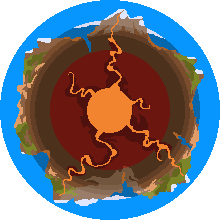
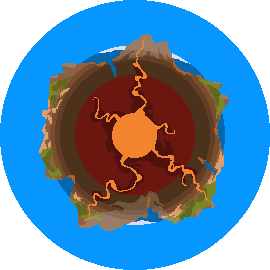
Bigger band for the planet!

diff --git a/core/src/net/mostlyoriginal/game/system/planet/cells/AirCellSimulator.java b/core/src/net/mostlyoriginal/game/system/planet/cells/AirCellSimulator.java
@@ -3,6 +3,7 @@ package net.mostlyoriginal.game.system.planet.cells;
 import com.badlogic.gdx.graphics.Color;
 import com.badlogic.gdx.math.Interpolation;
 import com.badlogic.gdx.math.MathUtils;
+import net.mostlyoriginal.game.component.G;
 import net.mostlyoriginal.game.component.PlanetCell;
 import net.mostlyoriginal.game.component.StatusMask;
 
@@ -12,6 +13,7 @@ import net.mostlyoriginal.game.component.StatusMask;
  */
 public class AirCellSimulator implements CellSimulator {
 
+    public static final float AIR_FADE_BAND_WIDTH = 50f;
     Color coldColor;
     Color aridColor;
     Color workColor = new Color();
@@ -19,19 +21,20 @@ public class AirCellSimulator implements CellSimulator {
     @Override
     public void process(CellDecorator c, float delta) {
 
-        if ( aridColor == null ) {
-            coldColor=new Color();
-            aridColor=new Color();
+        if (aridColor == null) {
+            coldColor = new Color();
+            aridColor = new Color();
 
             Color.rgba8888ToColor(coldColor, c.planet.cellColor[PlanetCell.CellType.AIR.ordinal()]);
             Color.rgba8888ToColor(aridColor, c.planet.cellColorArid[PlanetCell.CellType.AIR.ordinal()]);
-            coldColor.a = aridColor.a = workColor.a = 1f;
+            coldColor.a = aridColor.a = 1f;
         }
 
-        float a = MathUtils.clamp((c.mask().temperature / StatusMask.ARID_TEMPERATURE),0f,1f);
-        workColor.r = Interpolation.linear.apply( coldColor.r, aridColor.r, a);
-        workColor.g = Interpolation.linear.apply( coldColor.g, aridColor.g, a);
-        workColor.b = Interpolation.linear.apply( coldColor.b, aridColor.b, a);
+        float a = MathUtils.clamp((c.mask().temperature / StatusMask.ARID_TEMPERATURE), 0f, 1f);
+        workColor.r = Interpolation.linear.apply(coldColor.r, aridColor.r, a);
+        workColor.g = Interpolation.linear.apply(coldColor.g, aridColor.g, a);
+        workColor.b = Interpolation.linear.apply(coldColor.b, aridColor.b, a);
+        workColor.a = ((G.SIMULATION_WIDTH / 2) - c.cell.height) < AIR_FADE_BAND_WIDTH ? MathUtils.clamp(((G.SIMULATION_WIDTH /2)  - c.cell.height) / AIR_FADE_BAND_WIDTH, 0.05f, 1f): 1f;
 
         c.cell.color = Color.rgba8888(workColor);
 

diff --git a/core/src/net/mostlyoriginal/game/system/planet/cells/WaterCellSimulator.java b/core/src/net/mostlyoriginal/game/system/planet/cells/WaterCellSimulator.java
@@ -2,6 +2,7 @@ package net.mostlyoriginal.game.system.planet.cells;
 
 import com.badlogic.gdx.math.MathUtils;
 import net.mostlyoriginal.game.component.PlanetCell;
+import net.mostlyoriginal.game.component.StatusMask;
 
 /**
  * @author Daan van Yperen
@@ -41,7 +42,7 @@ public class WaterCellSimulator implements CellSimulator {
 
         if ( c.cell.nextType == null ) {
             final float temperature = c.mask().temperature;
-            if (temperature > 50 && MathUtils.random(0, 100) < 4) {
+            if (temperature >= StatusMask.ARID_TEMPERATURE && MathUtils.random(0, 100) < 4) {
                 c.setNextType(PlanetCell.CellType.AIR);
             }
         }

diff --git a/core/src/net/mostlyoriginal/game/system/planet/PlanetCreationSystem.java b/core/src/net/mostlyoriginal/game/system/planet/PlanetCreationSystem.java
@@ -56,6 +56,15 @@ public class PlanetCreationSystem extends PassiveSystem {
 
             populate(planet, planetE);
             gravity(planetE);
+            height(planetE);
+        }
+    }
+
+    private void height(Planet planetE) {
+        for (int y = 0; y < G.SIMULATION_HEIGHT; y++) {
+            for (int x = 0; x < G.SIMULATION_WIDTH; x++) {
+                planetE.grid[y][x].height = (v.set(x,y).sub(G.SIMULATION_WIDTH/2f, G.SIMULATION_HEIGHT/2f).len());
+            }
         }
     }
 

diff --git a/components/src/net/mostlyoriginal/game/component/G.java b/components/src/net/mostlyoriginal/game/component/G.java
@@ -8,8 +8,8 @@ public class G {
     public static final float CARD_Y = 5;
 
 
-    public static final int SIMULATION_WIDTH = 220;
-    public static final int SIMULATION_HEIGHT = 220;
+    public static final int SIMULATION_WIDTH = 220 + 50;
+    public static final int SIMULATION_HEIGHT = 220 + 50;
     public static final int MARGIN_BETWEEN_CARDS = 5;
 
     public static int CAMERA_ZOOM = 2;

diff --git a/core/src/net/mostlyoriginal/game/system/planet/cells/CellDecorator.java b/core/src/net/mostlyoriginal/game/system/planet/cells/CellDecorator.java
@@ -95,7 +95,7 @@ public class CellDecorator {
     private PlanetCell temp = new PlanetCell();
 
     public void swapWith(PlanetCell target) {
-        if (target.nextType == null) {
+        if (target.nextType == null && cell.nextType == null) {
             target.nextType = cell.type;
             target.nextColor = cell.color;
             cell.nextType = target.type;

diff --git a/components/src/net/mostlyoriginal/game/component/PlanetCell.java b/components/src/net/mostlyoriginal/game/component/PlanetCell.java
@@ -8,6 +8,7 @@ public class PlanetCell {
     public int y;
     public int color = 0;
     public int down = -1;
+    public float height = 0;
     public CellType type = CellType.STATIC;
 
 
